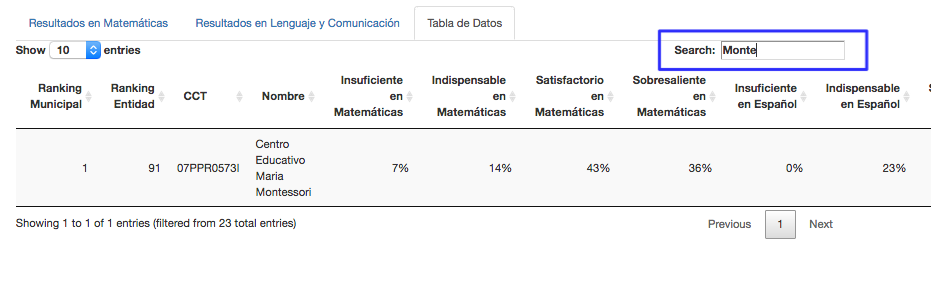
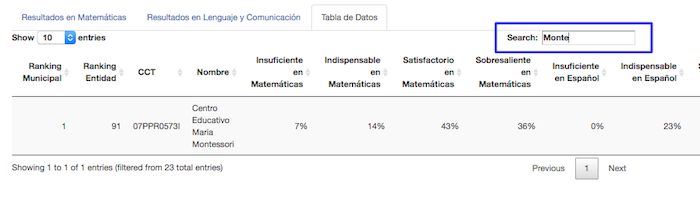
Reducir tamaño de imagenes en post1

diff --git a/_posts/2020-07-04-planea-resultados.md b/_posts/2020-07-04-planea-resultados.md
@@ -1,7 +1,7 @@
 ---
 layout: post
 title:  "Medir para Educar: Evaluaciones PLANEA en México "
-date:   2020-06-27 10:00:00 -0500
+date:   2020-07-04 10:00:00 -0500
 categories: educacion
 subtitle: "¿Y cómo le va a la escuela de tus hijos, sobrinos o hermanos?"
 background: '/img/posts/post01/header.jpg'
@@ -9,7 +9,7 @@ background: '/img/posts/post01/header.jpg'
 
 ## Todo empezó con una pregunta
 
-Hace algunos meses algunos padres de familia pedimos una reunión con la maestra titular de una de mis hijas para platicar sobre algunos temas, referentes al desempeño escolar, que nos tenían preocupados. Si bien en algún momento se tocaron temas como la importancia, o no, del factor social en la educación, el valor de la reglas o la cantidad de tareas que se dejaban; lo que más me dejó intrigado fue la aseveración sobre la caída del nivel académico del colegio. Cuando pregunté acerca de los datos que respaldaban tal creencia resultó que no habían. O al menos eso creí. 
+Hace unos meses algunos padres de familia pedimos una reunión con la maestra titular de una de mis hijas para platicar sobre varios temas, referentes al desempeño escolar, que nos tenían preocupados. Si bien se tocaron temas como la importancia, o no, del factor social en la educación, el valor de la reglas o la cantidad de tareas que se dejaban; lo que más me dejó intrigado fue la aseveración sobre la caída del nivel académico del colegio y el cómo otros colegios estaban dando mejor educación. Cuando pregunté acerca de los datos que respaldaban tal creencia resultó que no habían. O al menos eso creí. 
 
 ## Las pruebas PLANEA y ENLACE
 
@@ -38,7 +38,7 @@ Las áreas que evalua son **Matemáticas** y **Lenguaje Y Comunicación**. En ca
 
 Si se pregunta porqué como padre debería importarle este tipo de evaluaciones, podría mencionar el estudio[^3] del 2011 que sugiere que un mejor maestro de preescolar conlleva una mayor probabilidad de terminar la universidad  y de tener mayores ingresos a los 27 años, o el del 2014[^4], que indica que un docente con mayor "valor agregado" en cuarto de primaria aumenta, en promedio, el ingreso futuro del estudiante en alrededor de 39,000 dólares durante su vida adulta. Si bien estos estudios se llevaron a cabo en Estados Unidos, nos pueden dar una idea de la importancia de una buena educación desde edades tempranas.
 
-Los resultados de las pruebas PLANEA se pueden encontrar en la página de la SEP[^5], donde se pueden consultar resultados por escuela o hasta por alumno, o también en portales como [Mejora Tu Escuela](http://www.mejoratuescuela.org/) que incluso crea un ranking y tiene herramientas para comparar por escuela.
+Los resultados de las pruebas PLANEA se encuentran en la página de la SEP[^5], donde se pueden consultar resultados por escuela o hasta por alumno, o también en portales como [Mejora Tu Escuela](http://www.mejoratuescuela.org/) que incluso crea un ranking y tiene herramientas para comparar por escuela.
 
 Sin embargo, esas herramientas no me dejaban ver gráficamente el desempeño del colegio respecto a los demás en el municipio. O si este se comporta mejor respecto a otros en el estado.
 
@@ -72,16 +72,19 @@ Por otro lado, en Miguel Hidalgo
 
 En San Cristobal de las Casas hay muchas menos opciones de educación primaria e incluso las mejores escuelas tienen un alto porcentaje de alumnos con calificación **Insuficiente** y un porcentaje muy bajo en calificación **Sobresaliente**.
 
-En la pestaña "Tabla de Datos" están los resultados en Matemáticas y Lenguaje y Comunicación de cada escuela. También están los rankings municipales y estatales. De ahí se puede observar que la mejor escuela en San Cristobal de las Casas es la 91 en todo Chiapas y en ninguno de los mejores cinco colegios hay alguno que tenga más del 30% de alumnos dentro del rango Sobresaliente.
+![img3](/img/posts/post01/San_Cristobal.png)
+
+
+En la pestaña "Tabla de Datos" están los resultados en **Matemáticas** y **Lenguaje y Comunicación** de cada escuela. También están los rankings municipales y estatales. De ahí se observa que la mejor escuela en San Cristobal de las Casas es la 91 en todo Chiapas y en ninguno de los mejores cinco colegios hay alguno que tenga más del 30% de alumnos dentro del rango Sobresaliente.
 
 ![img3](/img/posts/post01/San_Cristobal_Tabla.png)
 
 
 Si la educación de mis hijas fuera un factor determinante para escoger donde vivir, probablemente ese municipio no sería una buena opción para mí.
 
-## ¿Y la escuela de mi hijo/sobrino/nieto/hermano?
+## ¿Y la escuela de mis hijos/sobrinos/nietos/hermanos?
 
-La aplicación está construida para que cualquiera pueda hacer uso de ella. Incluso se puede buscar directamente la escuela dentro de la tabla de datos. Sólo hay que escoger la Entidad Federativa y el Municipio:
+La aplicación está construida para que cualquiera pueda hacer uso de ella. Incluso se puede buscar directamente la escuela dentro de la tabla de datos. 
 
 ![search](/img/posts/post01/Search.png)
 
@@ -97,7 +100,7 @@ Una vez dentro hay tres opciones que se deben escoger:
 - Municipio
 - Nivel (Primaria o Secundaria)
 
-Del lado derecho se pintan dos gráficas y una tabla de datos. Una de las gráficas muestra los resultados en **Matemáticas** y la otra en **Lenguaje y Comunicación**. La tabla, como se mostró anteriormente, muestra los resultados y los rankings de cada escuela.
+Del lado derecho se pintan dos gráficas y una tabla de datos. Una de las gráficas muestra los resultados en **Matemáticas** y la otra en **Lenguaje y Comunicación**. La tabla, como se revisó anteriormente, arroja los resultados y los rankings de cada escuela.
 
 Los invito a usar la aplicación y a conocer los resultados de las escuelas de su gente cercana para que puedan acercarse y hacer las sugerencias que consideren oportunas. La educación es la principal heramienta que tenemos para mejorar la movilidad social. 
 
